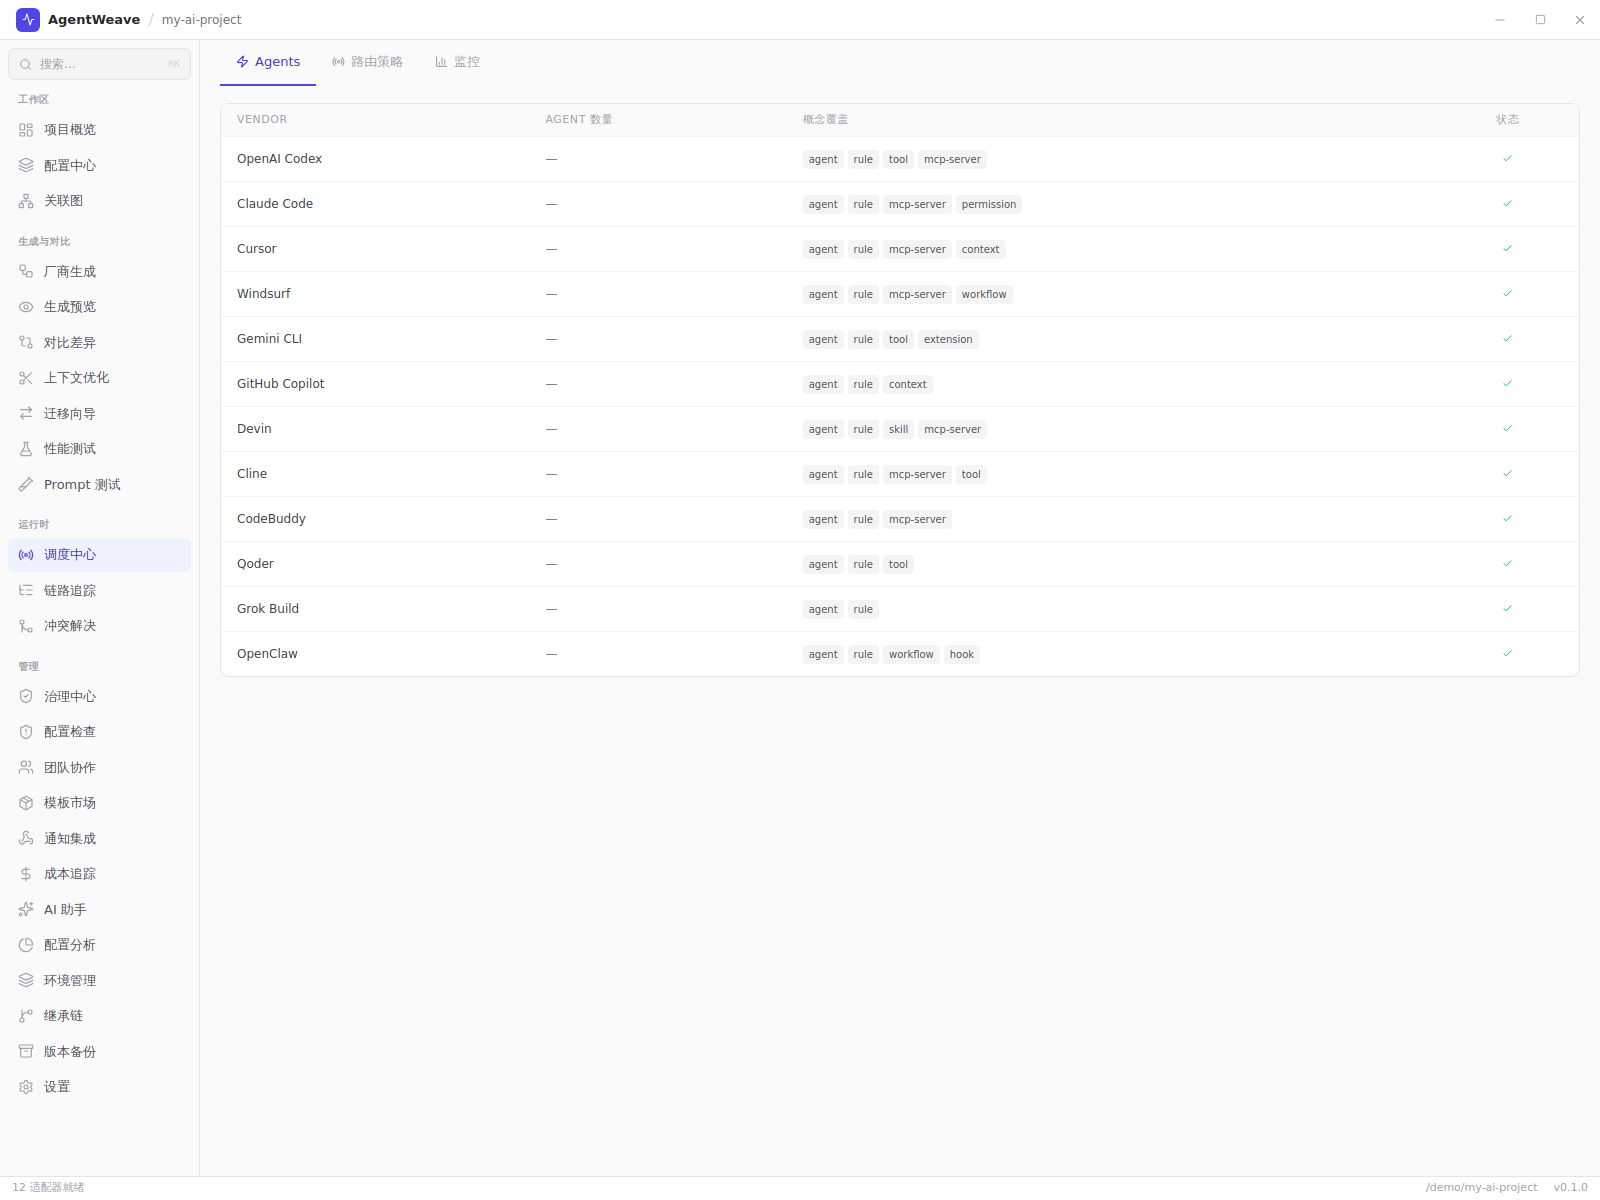
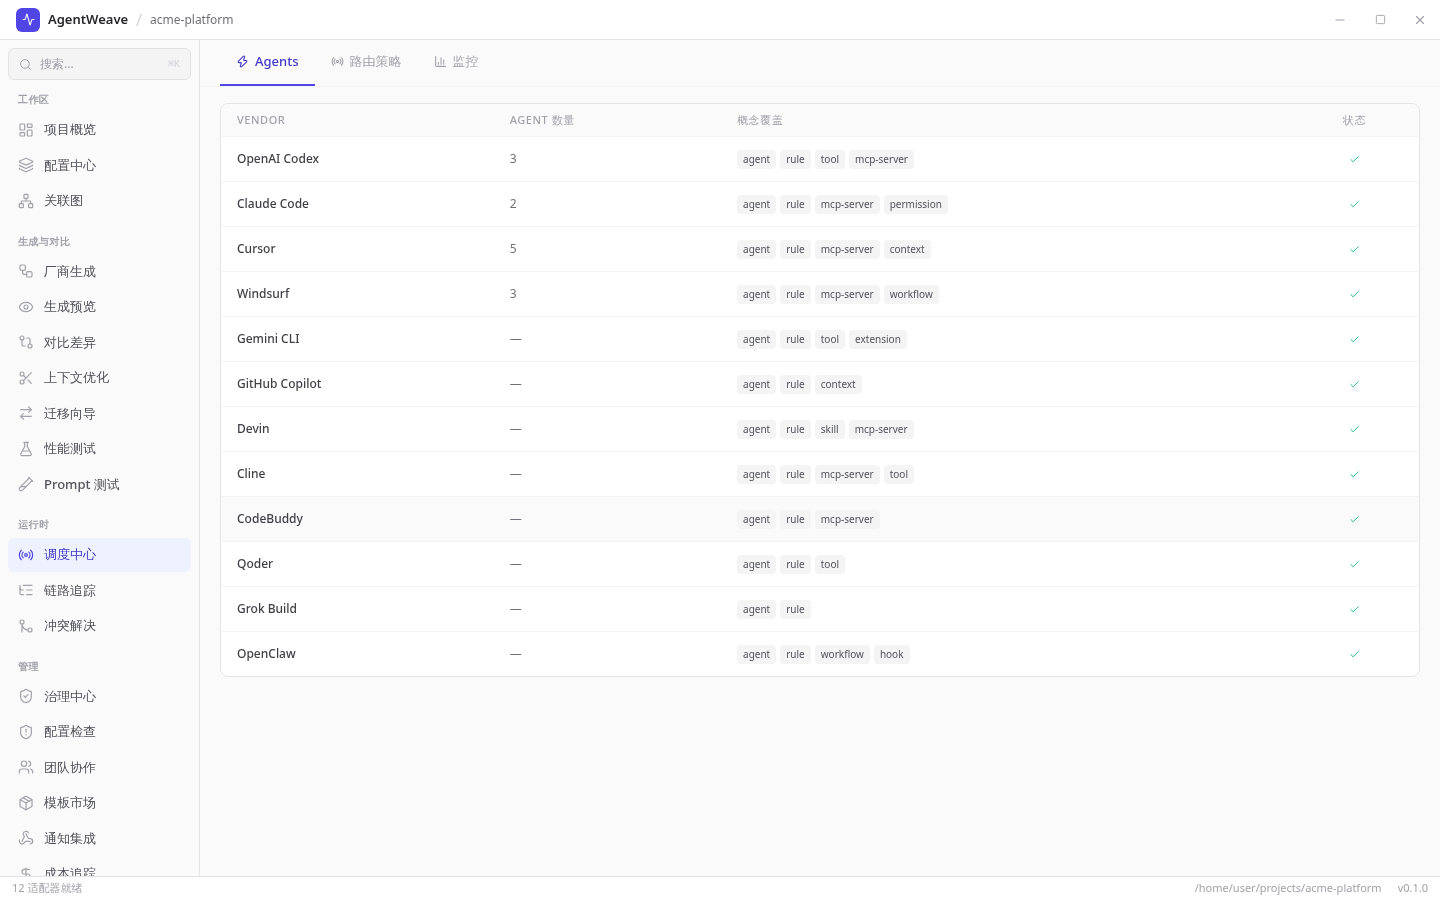
docs: recapture desktop screenshots in Chinese and English from the current frontend

diff --git a/README.md b/README.md
@@ -187,65 +187,67 @@ The cross-platform desktop application provides a visual interface for managing 
 
 **Supported Platforms:** Linux (deb/AppImage), macOS (dmg), Windows (msi/exe)
 
+> The screenshots below were re-captured from the current code with the UI set to English. They come from the frontend's browser dev mode (`pnpm dev` in `apps/desktop`, headless Chromium), where Vite swaps the Tauri APIs for the repo's own mocks in `src/mocks/` and opens the sample project `acme-platform`. In that mode, pages backed by local SQLite (Trace, Governance, Templates, AI Assist) show their empty states; in the desktop app they show your own data. The Chinese UI versions are in [README_zh-CN.md](README_zh-CN.md).
+
 ### Dashboard
 
 Project overview with health checks, vendor status, quick actions, migration wizard, and configuration detection.
 
-![Dashboard](docs/screenshots/01-dashboard.png)
+![Dashboard](docs/screenshots/01-dashboard-en.png)
 
 ### Config Hub
 
 Concept tree navigation (Agents, Rules, MCP, Skills, Workflows, Hooks, Tools, Models) with card-based detail view.
 
-![Config Hub](docs/screenshots/02-config-hub.png)
+![Config Hub](docs/screenshots/02-config-hub-en.png)
 
 ### Vendor Generate
 
 12 vendor selection with concept compatibility matrix — generate configs for all vendors in batch.
 
-![Generate](docs/screenshots/03-generate.png)
+![Generate](docs/screenshots/03-generate-en.png)
 
 ### Compare
 
 Side-by-side diff view — compare generated output across any two vendors with syntax highlighting.
 
-![Compare](docs/screenshots/04-compare.png)
+![Compare](docs/screenshots/04-compare-en.png)
 
 ### ACP Gateway
 
 Unified Agent Communication Protocol — vendor registry, routing strategies, concept coverage, and health monitoring.
 
-![ACP Gateway](docs/screenshots/05-acp-gateway.png)
+![ACP Gateway](docs/screenshots/05-acp-gateway-en.png)
 
 ### Trace & Observability
 
 Full-chain OTLP-compatible tracing with span list, latency tracking, logs, and alerts.
 
-![Trace](docs/screenshots/06-trace.png)
+![Trace](docs/screenshots/06-trace-en.png)
 
 ### Governance
 
 Enterprise governance — policies, RBAC roles, audit trail, and quotas management.
 
-![Governance](docs/screenshots/07-governance.png)
+![Governance](docs/screenshots/07-governance-en.png)
 
 ### Template Marketplace
 
 Community-shared Agent/Rule/Workflow templates with categories, search, downloads, and stars.
 
-![Templates](docs/screenshots/08-templates.png)
+![Templates](docs/screenshots/08-templates-en.png)
 
 ### AI Assistant
 
 AI-powered configuration suggestions with confidence scoring, code diffs, and conversational Q&A.
 
-![AI Assist](docs/screenshots/09-ai-assist.png)
+![AI Assist](docs/screenshots/09-ai-assist-en.png)
 
 ### Settings
 
 System settings (adapter defaults, notifications, security) and user preferences (theme, language) in separate tabs.
 
-![Settings](docs/screenshots/10-settings.png)
+![Settings](docs/screenshots/10-settings-en.png)
 
 ### Development
 

diff --git a/README_zh-CN.md b/README_zh-CN.md
@@ -222,6 +222,8 @@ governance:
 
 **支持平台：** Linux (deb/AppImage), macOS (dmg), Windows (msi/exe)
 
+> 下面的截图按当前代码重新实拍，界面语言为中文。截图来自前端的浏览器开发模式（在 `apps/desktop` 里运行 `pnpm dev`，用无头 Chromium 打开）：这种模式下 Vite 会把 Tauri API 换成仓库自带的 `src/mocks/`，并打开示例项目 `acme-platform`。追踪、治理、模板市场、AI 助手这几页的数据存在本地 SQLite 里，所以这里显示的是空状态，桌面应用里会显示你自己的数据。英文界面的同一组截图见 [README.md](README.md)。
+
 ### 仪表盘
 
 项目概览、健康检查、快捷操作、迁移向导、配置检测。
